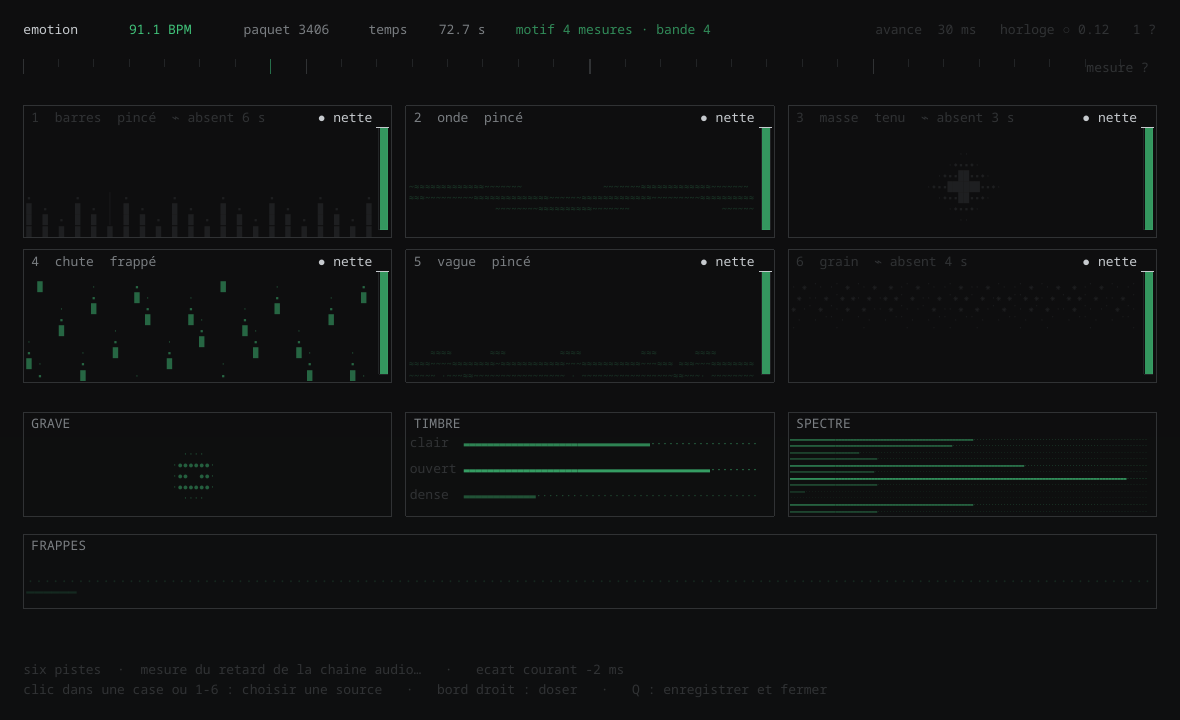
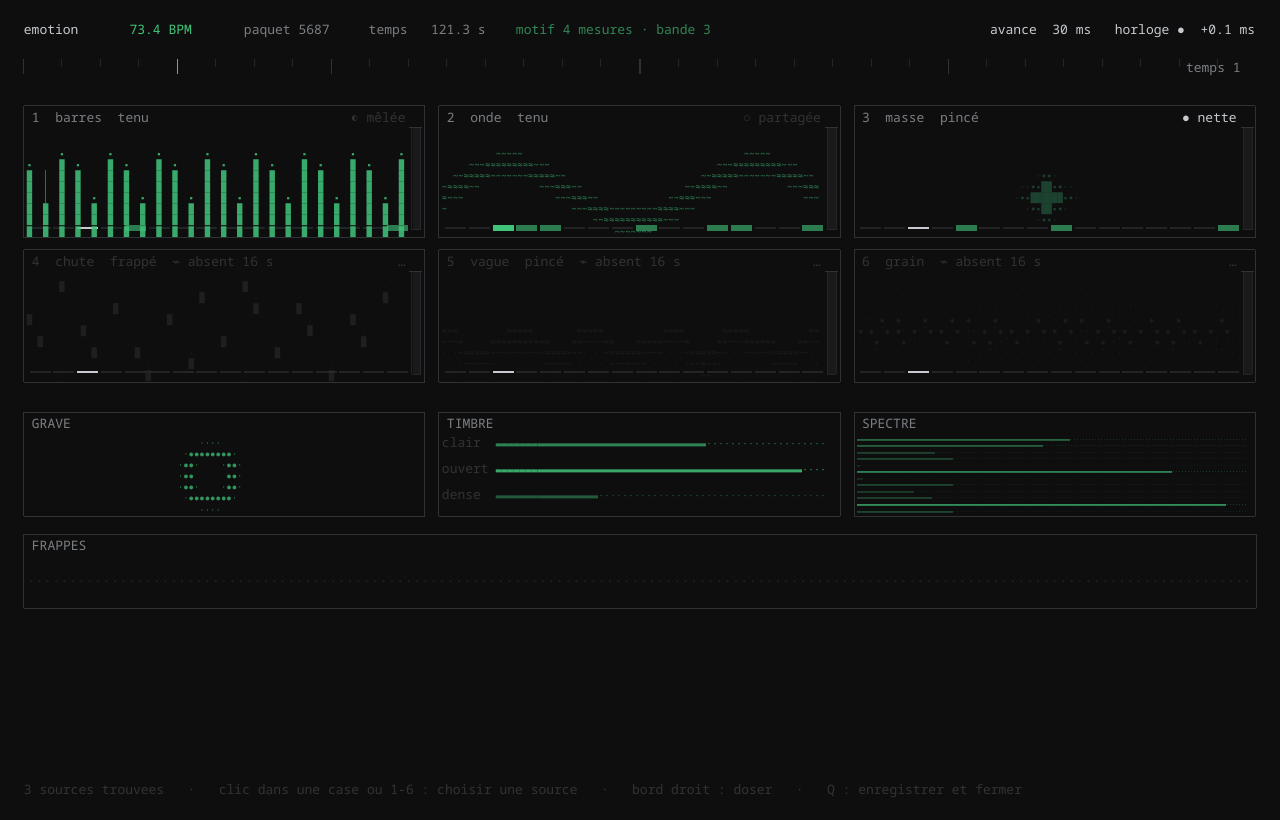
README : le cue apprend, le master joue
Tete reecrite pour l'avancee : cas d'usage (DJ, platine, Xone, moteur,
rendu, crate), sequence du cue au master (provisoire, choix, croissance,
motifs, verrou), ce que le rendu recoit par source, tableau croise sur
l'album. La chaine de traitement gagne sa branche separation (cases log,
gabarits, sources, reste, motif). Deux captures prises sur Glyph Chamber
verrouille : le mur avec les motifs sous chaque forme, et une source choisie.

diff --git a/README.md b/README.md
@@ -18,8 +18,8 @@ Compagnon de [crate](https://github.com/LiquidSnake0/crate), la base de données
 de disques. Les deux se parlent par HTTP, ils ne fusionnent pas.
 
 `.NET 10` · `ASP.NET Core` · `mémoire partagée` · `PulseAudio` · `xUnit` · `Python` · `Qt` ·
-**187 tests** · **30 contrôles de fumée** · **zéro dépendance tierce dans le cœur** ·
-**21 ms d'analyse**
+**205 tests** · **32 contrôles de fumée** · **zéro dépendance tierce dans le cœur** ·
+**21 ms d'analyse** · **le nombre de sources est découvert, jamais imposé**
 
 ---
 
@@ -31,12 +31,13 @@ qu'elle contient bien ce qu'elle prétend.
 
 <table>
 <tr>
-<td width="55%"><img src="docs/images/mur.png" alt="Le mur"><br>
-<sub><b>Le mur</b> · six sources, une forme chacune, aucune deux fois ; le tempo, la mesure
-et ce qui se répète en bandeau</sub></td>
-<td width="45%"><img src="docs/images/mesure.png" alt="La mesure hors ligne"><br>
-<sub><b>La mesure hors ligne</b> · clair = ce qu'une analyse indépendante attend, vert = ce
-que le moteur publie au même instant. Elle ne sert plus qu'aux mesures sur fichier</sub></td>
+<td width="50%"><img src="docs/images/mur.png" alt="Le mur"><br>
+<sub><b>Le mur</b> · Glyph Chamber, verrouillé : trois sonorités trouvées par le moteur et
+<b>le reste</b> en dernière case ; sous chaque forme, son motif dans la mesure — le morse à
+venir — et le curseur de la mesure</sub></td>
+<td width="50%"><img src="docs/images/motif.png" alt="Une source isolée"><br>
+<sub><b>Une source choisie</b> · elle seule s'entend, les autres restent en sourdine ; ses
+seize cases disent où elle monte, mesure après mesure</sub></td>
 </tr>
 </table>
 
@@ -54,13 +55,109 @@ de départ sans jamais s'y verrouiller.
 |---|---|
 | **clic dans une case, ou 1 à 6** | la source est choisie, **et elle seule s'entend** |
 | **le même clic à nouveau** | tout le morceau revient, la source reste choisie |
-| **7 et 8** | la batterie de référence, et ce que le moteur retient comme frappe |
-| **bord droit d'une case** | le fader : la fenêtre est un stem player à six pistes |
-| **espace** | maintenu = présence, tapé = instants — ce que l'oreille marque |
+| **bord droit d'une case** | le fader : la fenêtre est un stem player, autant de pistes que de sources |
+| **la ligne du bas** | « 2 pistes », puis « 3 pistes » : les pistes suivent les sources que le moteur découvre |
+| **espace** | maintenu = présence, tapé = instants — ce que l'oreille marque, confronté au moteur |
+| **le trait sous chaque forme** | le motif de la source : où elle monte dans la mesure, et où l'on en est |
 
 **Le rendu ne passe par aucun réseau.** Le moteur publie 256 octets dans `/dev/shm`, la
 fenêtre Qt les lit, et l'eGPU les lira sur PCIe ou USB-C — même contrat, sans intermédiaire.
 C'est ce qui fait de cette fenêtre une mesure et non une illustration.
+
+---
+
+## Le cue apprend, le master joue
+
+C'est la bifurcation qui a donné sa forme au moteur, et elle est du DJ :
+
+> « Pendant le beatmatch il arrive à séparer le son ; quand la musique est au master, il
+> doit pouvoir se débrouiller par la suite : fixer le BPM, ne plus chercher à le retoucher
+> une fois qu'on a capté le boom-tchak, et si au boom une note de piano puis au tchak une
+> autre, on garde en tête cette possibilité — repérer les patterns de répétition. »
+
+Le son ne passe jamais par le moteur : platine → table → sono. Le moteur **écoute** la
+sortie casque pendant les quarante secondes du cue, et ce qu'il en tire ne s'appelle jamais
+« piano » ou « guitare » — le rendu n'en a que faire. Ce qu'il en tire, c'est **combien de
+sonorités**, **laquelle frappe, laquelle tient**, et **où chacune tombe dans la mesure**.
+
+```mermaid
+flowchart LR
+    dj(["DJ"])
+    platine["platine"]
+    xone["Xone:92<br/>cue · master"]
+    sono["sono"]
+    ee["<b>Emotion Emulator</b><br/>écoute le cue<br/>publie 256 octets"]
+    gpu["unité de rendu<br/>cube · vidéo · formes"]
+    crate["crate<br/>la fiche du disque"]
+
+    dj -->|pose un disque| platine --> xone --> sono
+    xone -.->|sortie casque| ee
+    crate -.->|BPM · caractère M+/M-| ee
+    ee ==>|"sources · morse à venir · verrou"| gpu
+    dj -.->|"beatmatch 40 s<br/>puis master"| xone
+    gpu -->|"le cube tourne au BPM,<br/>la couleur change sur la source 3,<br/>les coins s'étirent sur le souffle"| dj
+```
+
+### Ce qui se passe entre le cue et le master
+
+```mermaid
+sequenceDiagram
+    participant DJ
+    participant M as Moteur
+    participant G as Rendu
+    DJ->>M: pose le disque au casque (t = 0)
+    Note over M: 5 s · provisoire : quatre sources, pour que l'écran vive
+    Note over M: 40 s · la mémoire est pleine : balayage 2→6,<br/>le nombre de sources est CHOISI
+    M->>G: 2 sources + le reste, niveaux, hauteurs, frappes
+    Note over M: toutes les 20 s · une source de plus est essayée,<br/>gardée si elle explique du neuf sans copier ni suivre une autre
+    M->>G: 3 sources + le reste (la guitare est entrée)
+    Note over M: chaque mesure · la montée de chaque source<br/>est rangée sur seize cases
+    M->>G: motif par source : le morse à venir
+    Note over M: 16 mesures tenues · VERROU :<br/>le morceau est su, plus de réapprentissage
+    DJ->>M: passe au master
+    G-->>DJ: allume la case avant que la note ne sonne
+```
+
+**Pourquoi le motif, et pas la détection.** Une frappe détectée arrive toujours en retard —
+la fenêtre qui la voit mesure 85 ms — et jamais deux fois pareil. Un motif tenu sur seize
+mesures se joue *en avance* : le rendu allume la couleur sur la note, pas après. La détection
+ne sert plus qu'à confirmer qu'on est toujours en phase. Et quand le motif ne tient pas, le
+moteur ne verrouille pas : Timeline Explorer n'a de motif stable nulle part, pas même chez le
+juge extérieur, parce que la grille y dérive — la stabilité du motif est aussi un indicateur
+de santé de la grille.
+
+### Ce que le rendu reçoit, par source
+
+| octet | ce qu'il dit | d'où il vient |
+|---|---|---|
+| niveau | combien elle joue, rapporté à sa propre crête | le suivi des gabarits, lissé sur 85 ms |
+| hauteur | une vraie hauteur de note : le gabarit plus sa position | le gabarit qui glisse sur deux octaves |
+| frappe | elle vient de monter franchement | son propre niveau — plus la bande de fréquence de même rang |
+| pique · tenue · retrait | frappe-t-elle, tient-elle, s'est-elle tue | l'enveloppe par source |
+| motif (16 bits) | où elle monte dans la mesure | seize mesures de montées, sur la grille |
+| **la dernière case** | **le reste** : ce que les gabarits n'expliquent pas | sur ce répertoire, la batterie |
+| verrou | le morceau est su | deux motifs tenus sur seize mesures |
+
+### Ce que ça vaut, mesuré
+
+Le moteur seul sur chaque titre de l'album, jugé contre un séparateur appris sur des
+milliers de morceaux (Demucs) — meilleure corrélation d'une piste avec chaque stem :
+
+| titre | sources | basse | batterie | mélodique | verrou |
+|---|---|---|---|---|---|
+| Interactive WordBank | 3 + reste | 0,86 | 0,78 | 0,91 | — |
+| Glyph Chamber | 3 + reste | **0,96** | 0,60 | 0,80 | **oui**, motifs à 0,86–0,93 |
+| Dead Internet Theory | 3 + reste | 0,92 | 0,69 | 0,77 | — |
+| Passepartout | 3 + reste | 0,83 | 0,77 | 0,72 | — |
+| Echoes of the Ancients | 3 + reste | 0,83 | 0,80 | 0,80 | — |
+| Timeline Explorer | 3 + reste | 0,71 | 0,80 | 0,83 | — (la grille dérive) |
+| Codex Sinaiticus | 4 + reste | 0,51 | 0,78 | 0,82 | — |
+
+Sur sept titres sur neuf, la batterie est bien la dernière case. Le DJ, à l'oreille, sur
+Passepartout : « piano / synthé très tenu / les aigus et le tchak / boum-tchak » — quatre
+cases, quatre sonorités. Et ce que le moteur **ne sait pas faire**, dit tel quel : décoller
+une guitare d'un piano qui ont les mêmes harmoniques et la même enveloppe (trois bancs, aucune
+configuration), et juger le morse du piano à la machine — c'est la touche espace qui le juge.
 
 ---
 
@@ -116,7 +213,7 @@ flowchart LR
     subgraph server["Emotion.Server — .NET 10"]
         deck["<b>DeckState</b><br/>joue / calé"]
         am["<b>analyseur MASTER</b><br/>attaques · tempo · harmonie"]
-        ac["<b>analyseur CUE</b><br/>attaques · tempo · harmonie"]
+        ac["<b>analyseur CUE</b><br/>attaques · tempo · harmonie<br/>sources · reste · motifs · verrou"]
         blend["<b>BlendEstimator</b><br/>corrélation des dynamiques"]
         worker["<b>SignalWorker</b><br/>BackgroundService"]
         bus["<b>FrameBus</b><br/>file bornée"]
@@ -275,6 +372,17 @@ flowchart TD
     fft2 --> flat["platitude spectrale"]
     chroma --> harm(["HARMONIE<br/>note · accord · auréole"])
     flat --> harm
+
+    fft2 --> log["192 cases log<br/>24 par octave"]
+    log --> gab["gabarits qui glissent<br/>KL · 2 octaves · 40 s de cue<br/>nombre choisi, puis croissance"]
+    gab --> src(["SOURCES<br/>niveau · hauteur · frappe"])
+    gab --> reste(["LE RESTE<br/>ce que rien n'explique : la batterie"])
+    src --> motif(["MOTIF<br/>16 cases par mesure · verrou"])
+    reste --> motif
+
+    style src fill:#2d5c3a,stroke:#5ad98a,color:#fff
+    style reste fill:#5c2d2d,stroke:#d95a5a,color:#fff
+    style motif fill:#2d5c5c,stroke:#5ad9d9,color:#fff
 
     style kick fill:#2d4a6b,stroke:#5a90d9,color:#fff
     style clap fill:#6b5a2d,stroke:#d9b95a,color:#fff

diff --git a/CLAUDE.md b/CLAUDE.md
@@ -2097,9 +2097,44 @@ HyperText Odyssey la mettent dans un gabarit. Basse médiane 0,83, batterie 0,77
 faible est la basse de Codex Sinaiticus (0,51, cinq sources) — à écouter. Pistes livrées
 pour l'oreille : `~/Documents/emotion-sources/{glyph-chamber,codex-sinaiticus,timeline-explorer}/`.
 
+### Le motif de chaque source, et le verrou
+
+Sa phrase, à garder telle quelle : « pendant le beatmatch il arrive à séparer le son ; au
+master il doit se débrouiller : fixer le BPM, ne plus retoucher une fois le boom-tchak
+capté, et si au boom une note de piano puis au tchak une autre, repérer les patterns de
+répétition ». Le cue apprend, le master joue.
+
+**Mesure d'abord** (sonde `sources=` avec la phase, trois titres, seize cases par mesure) :
+le bit `frappe` donne des motifs vides (trop peu de frappes depuis le lissage du suivi, une
+case de jitter) ; le niveau suit la nappe ; **la montée du niveau** donne des motifs stables
+à 0,93–0,98 entre mesures paires et impaires sur Glyph Chamber, et le motif du reste y colle
+à celui de la batterie ; Passepartout 0,4–0,8 ; Timeline Explorer rien, pas même chez le
+juge — la grille y dérive, et la stabilité du motif devient un indicateur de santé de la
+grille.
+
+**Dans le moteur** : `MotifSources` (montée par case, seize mesures en anneau, stabilité =
+corrélation paires/impaires, `Masque` = cases ≥ 50 % du max, `Verrouille(publiees)` = deux
+sources tenues à ≥ 0,80 sur seize mesures). Branché dans l'analyseur sur `act[i]` et
+`(_grid.Beat + _grid.Phase) / 4`. Paquet : six `ushort` à **243** (`MotifSource0..5`), verrou
+à **255**. `SourceSeparator.Verrou` coupe tout réapprentissage. La fenêtre dessine seize
+cases sous chaque forme avec le curseur de la mesure (`P_MOTIFS`, `P_VERROU`). La sonde
+imprime motifs, stabilités, verrou.
+
+> **Le verrou souple a été essayé et retiré** : gabarits figés mais croissance permise →
+> sans adaptation, « du neuf » apparaissait à chaque essai, Glyph Chamber montait à cinq
+> sources. Strict, avec seize mesures (≈ 50 s) avant de verrouiller, pour laisser aux
+> instruments qui entrent le temps d'avoir leur case. Glyph Chamber : 3 + reste, verrouillé,
+> motifs 0,86–0,93. Passepartout, Timeline Explorer, WordBank : pas de verrou.
+
+Le README a été réécrit en tête pour cette avancée (cas d'usage, séquence cue→master, ce que
+le rendu reçoit par source, tableau croisé), avec deux captures `docs/images/mur.png` et
+`motif.png` prises sur Glyph Chamber verrouillé (fenêtre hors écran, `capture.sh` dans le tmp
+du job).
+
 Reste de l'étape 3, pas fait : le **caractère** par source (frappe / tient, sur la durée,
-un octet du paquet) pour que le GPU sache quel geste donner à quelle source ; et le morse du
-piano jugé à l'oreille, avec le protocole corrigé.
+un octet du paquet) pour que le GPU sache quel geste donner à quelle source ; le morse du
+piano jugé à l'oreille, avec le protocole corrigé ; et le retard de 60–80 ms du bit `frappe`
+à compenser au rendu (ou à remplacer par le motif, qui est en avance).
 
 ## Le contrôle de fumée, et pourquoi il a fallu l'écrire
 
